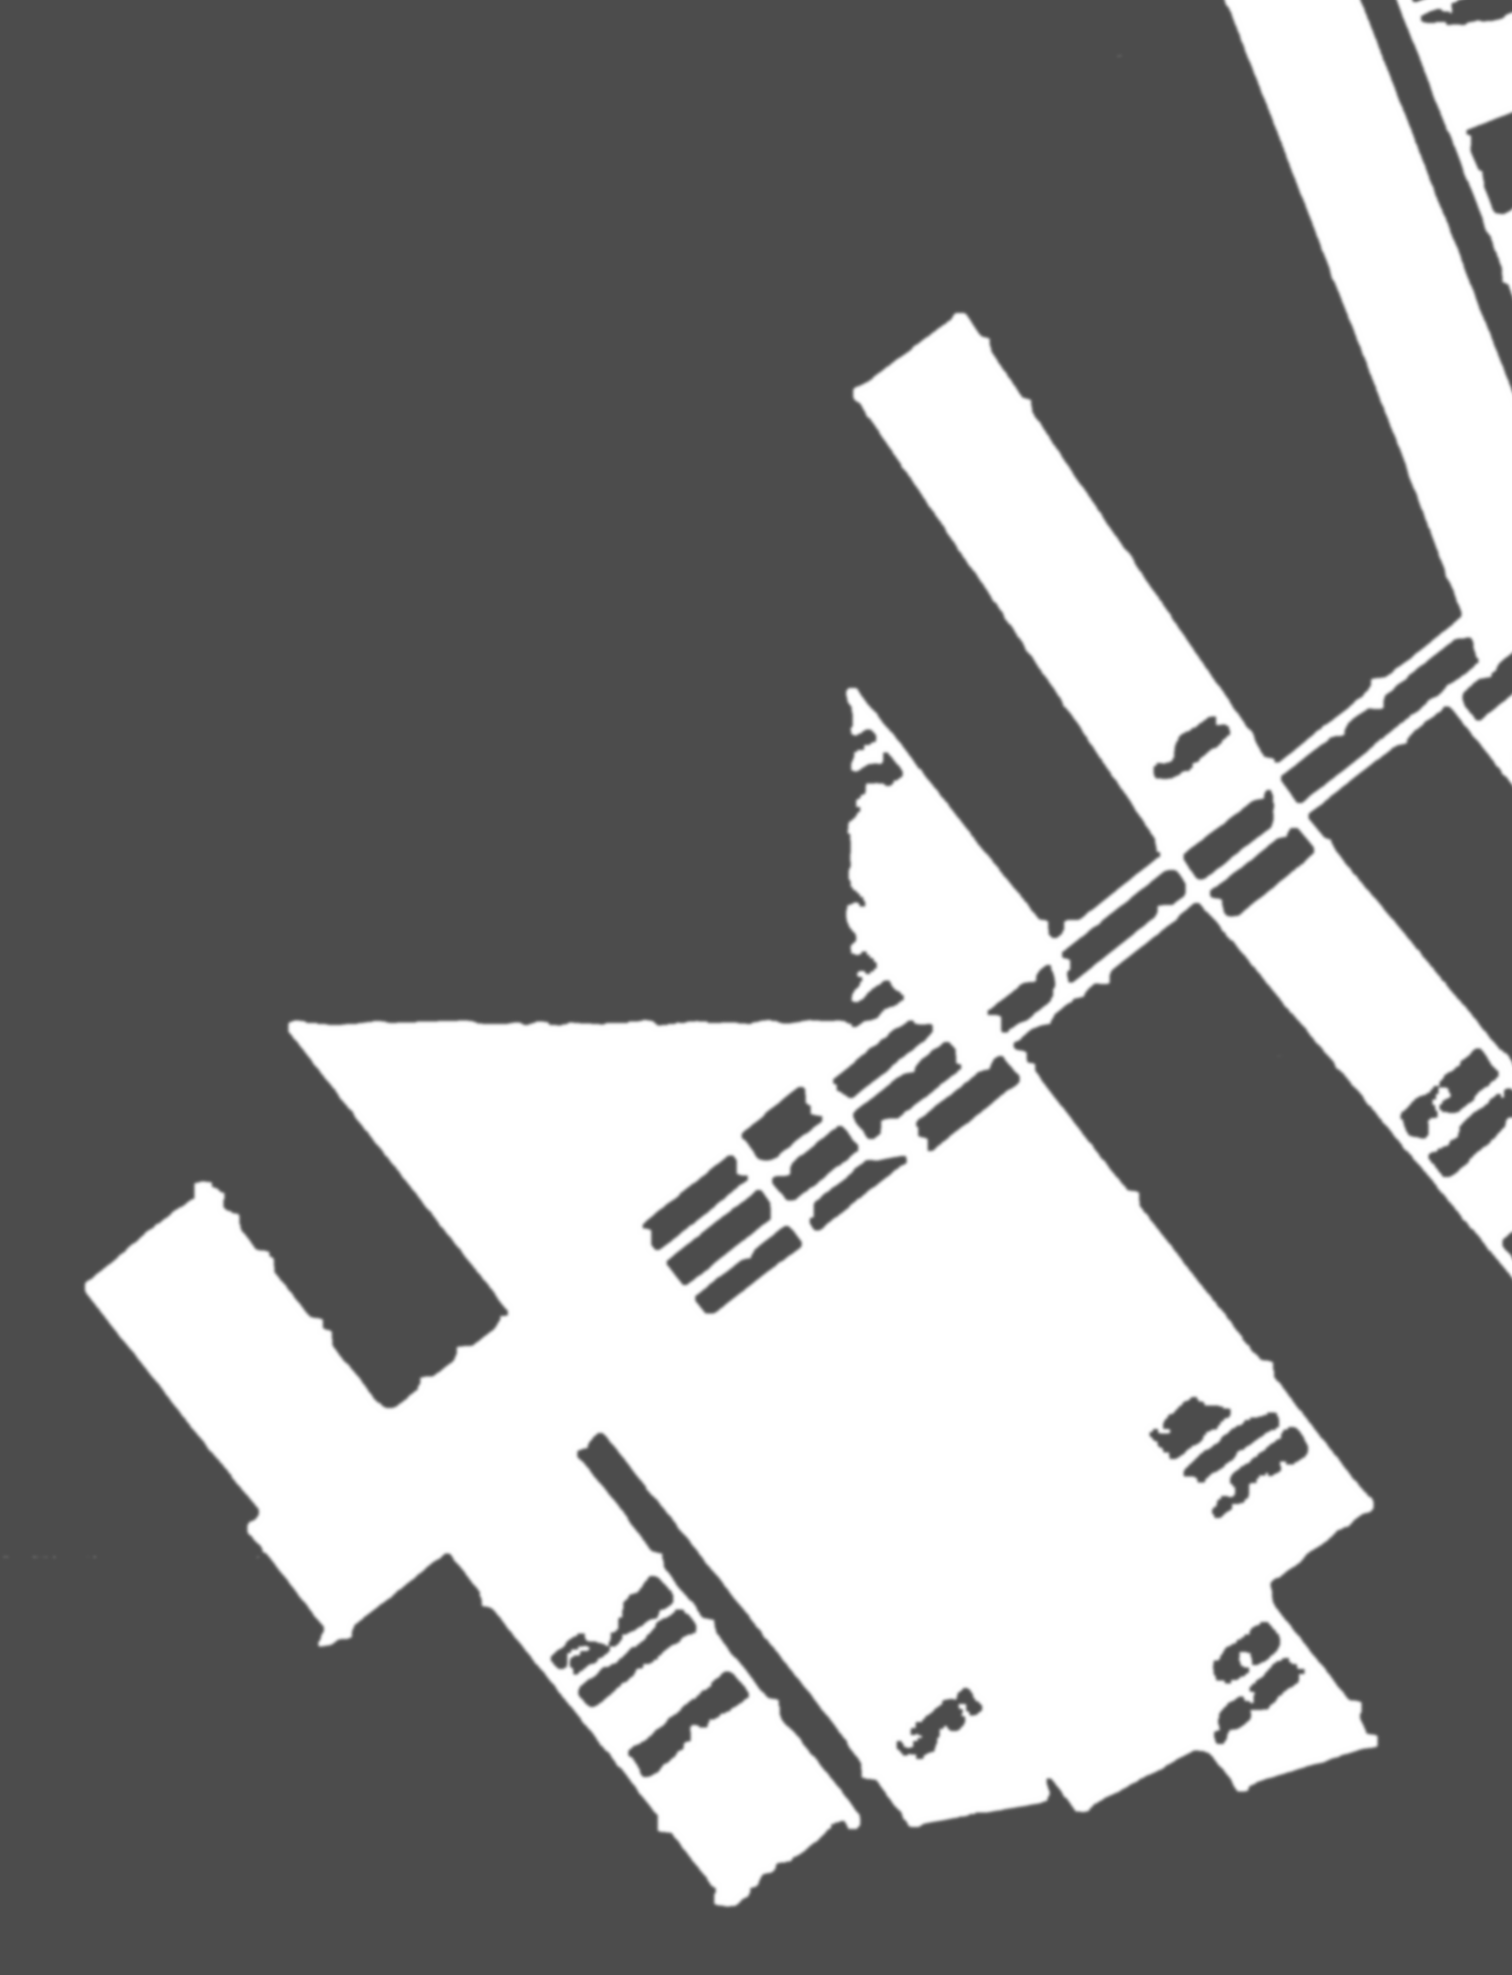
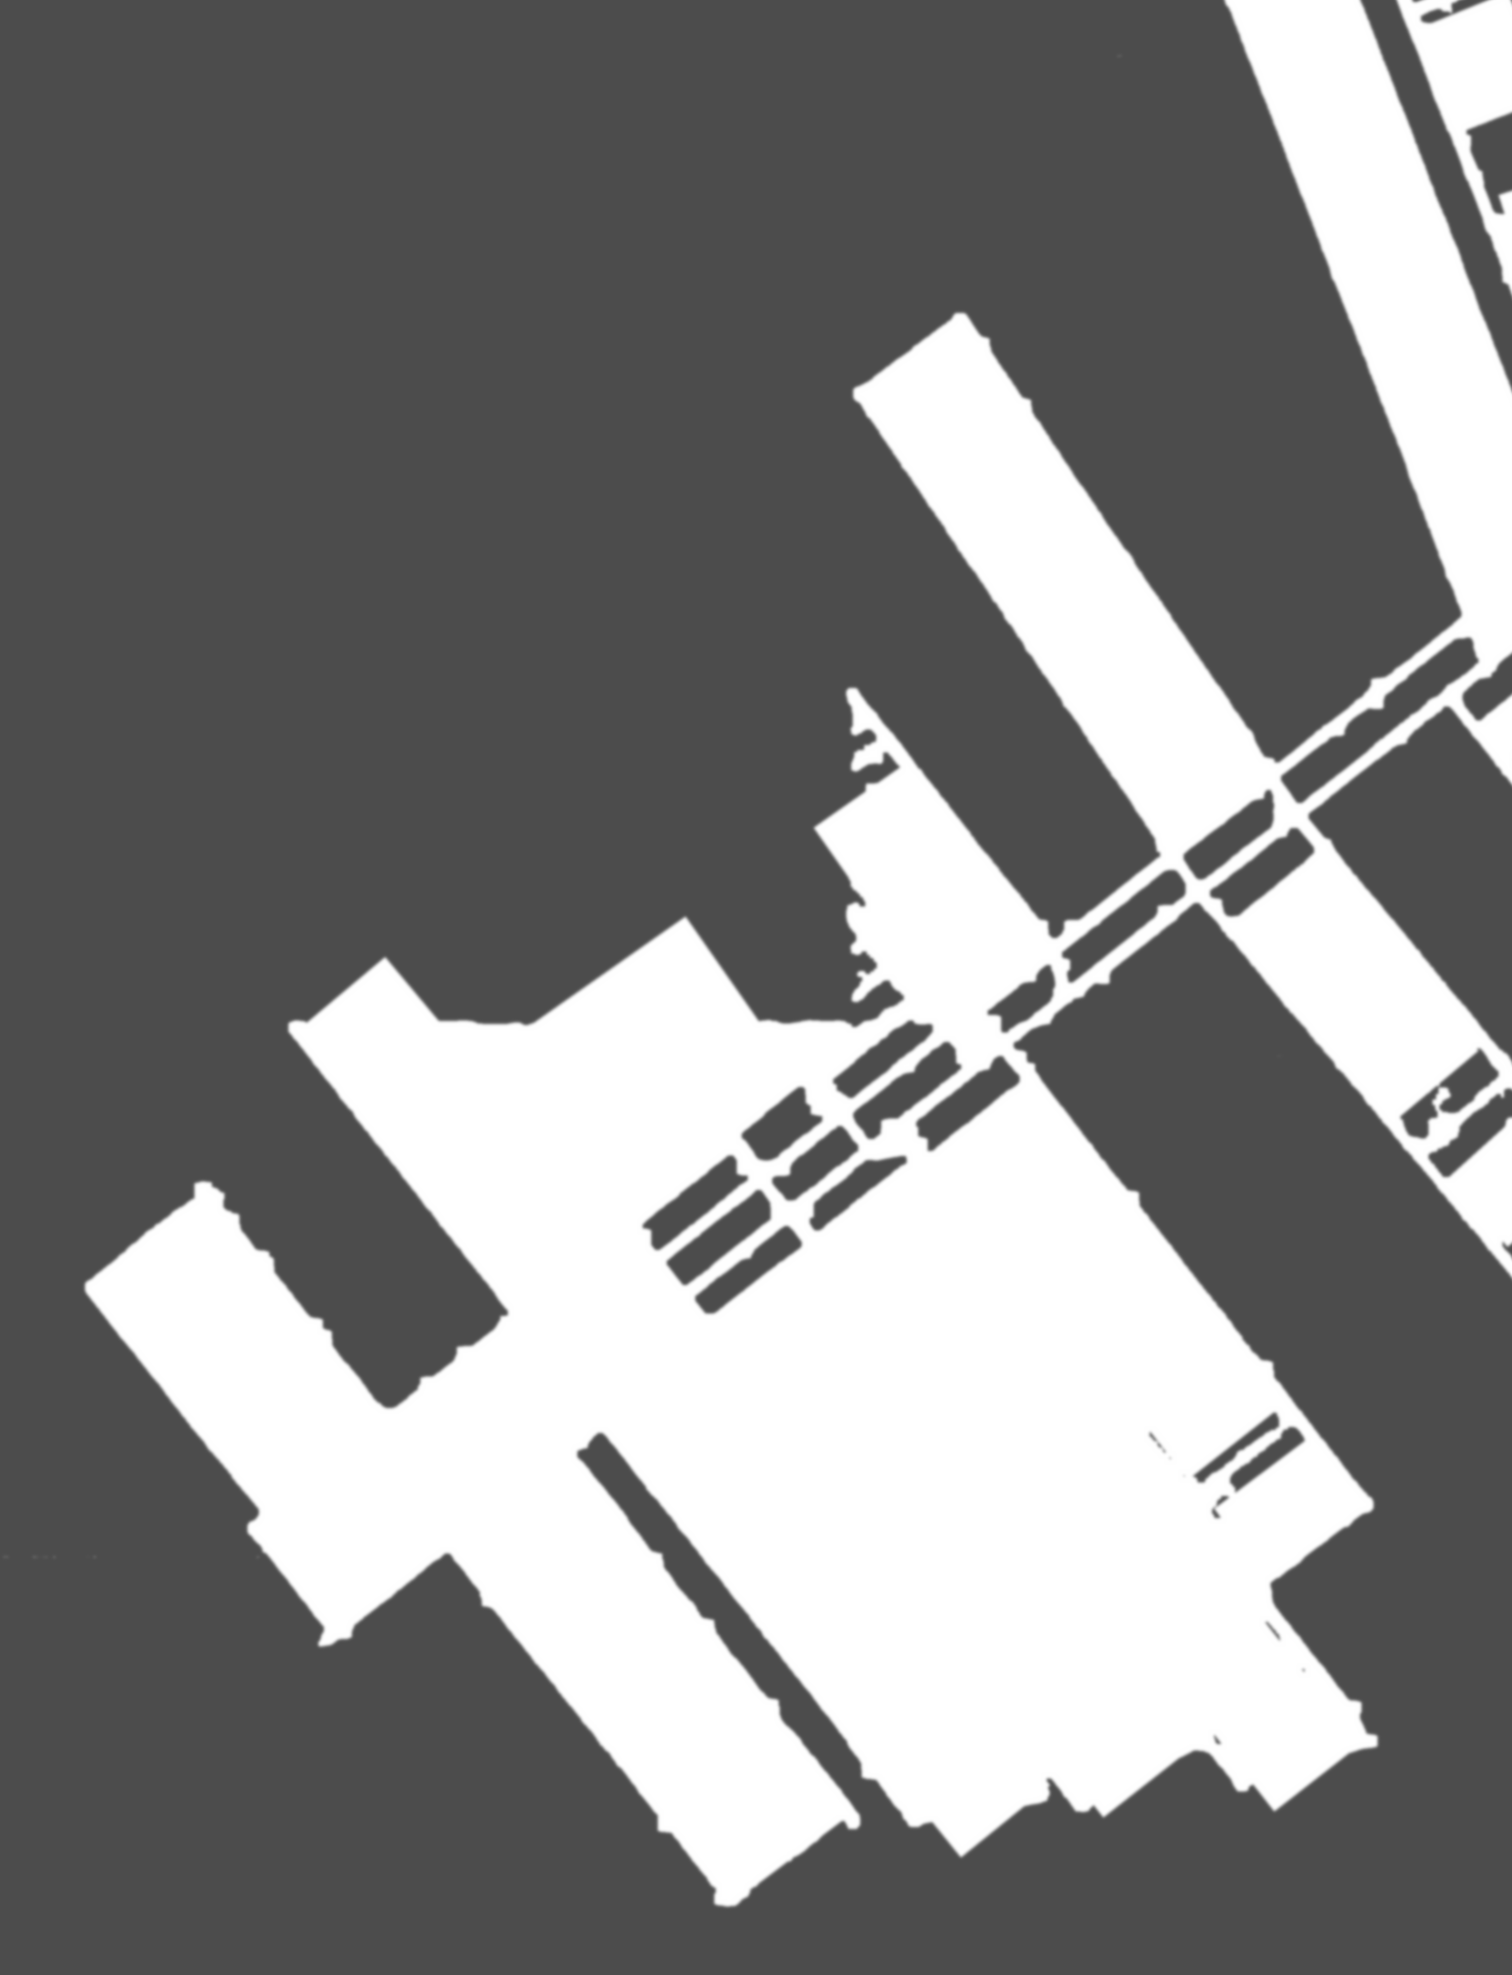
Panels worked solid start to finish; faces 1 m high on 5-leg chocks, no arches
Claude-Session: https://claude.ai/code/session_018UQfztsJCTj6wDcmbs4YbN

diff --git a/index.html b/index.html
@@ -168,7 +168,7 @@ button:focus-visible,input:focus-visible{outline:2px solid var(--accent);outline
       <div class="dist" id="wdist"></div>
     </div>
     <div class="sec note">
-      Roadways are traced from the plan's double lines and drawn as 4.9&nbsp;m × 3.7&nbsp;m steel-arched gates following the Threequarter floor levels. Panel 2's east gate was a face gate until the panel finished, then became the Parkhall main return road (it turns red at that date). Fresh and return air never meet: where the roads cross, the return is carried over the intake on an air crossing, cross-cuts between them are sealed with stoppings, and pit-bottom connections pass through air doors. Loader gates carry the conveyor (right-hand side facing outbye) and have an advanced heading ahead of the face; supply gates carry a rope-hauled rail track and no conveyor; which other roads were intakes or returns is not yet mapped. Rails and arches are illustrative, not surveyed. Worked-out panels (goaf) are not walkable.
+      Roadways are traced from the plan's double lines and drawn as 4.9&nbsp;m × 3.7&nbsp;m steel-arched gates following the Threequarter floor levels. Panel 2's east gate was a face gate until the panel finished, then became the Parkhall main return road (it turns red at that date). Fresh and return air never meet: where the roads cross, the return is carried over the intake on an air crossing, cross-cuts between them are sealed with stoppings, and pit-bottom connections pass through air doors. Loader gates carry the conveyor (right-hand side facing outbye) and have an advanced heading ahead of the face; supply gates carry a rope-hauled rail track and no conveyor; which other roads were intakes or returns is not yet mapped. Faces have no arches: they are 1&nbsp;m high on 5-leg chocks with an armoured face conveyor, and the view drops to a crouch there. Rails and arches are illustrative, not surveyed. Worked-out panels (goaf) are not walkable.
       <button class="btn" id="wModel" style="margin-top:8px">Show this spot in the 3D model</button>
     </div>
   </div>
@@ -197,7 +197,7 @@ button:focus-visible,input:focus-visible{outline:2px solid var(--accent);outline
   <div class="sec">
     <h2>Development over time</h2>
     <div class="row"><label><input type="checkbox" id="tOn">Show workings by date</label></div>
-    <div class="kv"><span id="tLab">Workings to end of 1991</span><b id="tArea">842 ha</b></div>
+    <div class="kv"><span id="tLab">Workings to end of 1991</span><b id="tArea">897 ha</b></div>
     <input type="range" id="tStep" min="0" max="9" step="1" value="9" aria-label="Year" disabled>
     <div class="ticks" aria-hidden="true"><span>1965</span><span>1971</span><span>1977</span><span>1983</span><span>1991</span></div>
     <div class="seg"><button class="btn" id="tPrev" aria-label="Earlier" disabled>◀ 3 yrs</button><button class="btn" id="tPlay" disabled>▶ Play</button><button class="btn" id="tNext" aria-label="Later" disabled>3 yrs ▶</button></div>
@@ -504,8 +504,8 @@ function buildFaces(){
   for(const P of (WALK.panels||[])){const f=faceAt(P,FACE_T); if(!f) continue; const A=acc[f.out?'o':'w'];
     const E0=P.c[0]+P.a[0]*f.t+P.l[0]*P.s[0], N0=P.c[1]+P.a[1]*f.t+P.l[1]*P.s[0], E1=P.c[0]+P.a[0]*f.t+P.l[0]*P.s[1], N1=P.c[1]+P.a[1]*f.t+P.l[1]*P.s[1];
     const L=Math.hypot(E1-E0,N1-N0), n=Math.max(2,Math.ceil(L/10)); let tx=(E1-E0)/L, tz=-(N1-N0)/L; const base=A.p.length/3;
-    for(let k=0;k<=n;k++){const E=E0+(E1-E0)*k/n,N=N0+(N1-N0)*k/n,c=[wx(E),zAt(E,N)*VE+r*0.55,wz(N)];
-      for(let j=0;j<=SEG;j++){const t=j/SEG*Math.PI*2,cs=Math.cos(t)*r,sn=Math.sin(t)*r;A.p.push(c[0]+tz*cs,c[1]+sn,c[2]-tx*cs);A.u.push(j/SEG*2,(L*k/n)/(r*2.2));}}
+    for(let k=0;k<=n;k++){const E=E0+(E1-E0)*k/n,N=N0+(N1-N0)*k/n,c=[wx(E),zAt(E,N)*VE+r*0.2,wz(N)];
+      for(let j=0;j<=SEG;j++){const t=j/SEG*Math.PI*2,cs=Math.cos(t)*r*1.25,sn=Math.max(-0.05,Math.sin(t))*r*0.38;A.p.push(c[0]+tz*cs,c[1]+sn,c[2]-tx*cs);A.u.push(j/SEG*2,(L*k/n)/(r*1.2));}}
     const R1=SEG+1;for(let k=0;k<n;k++)for(let j=0;j<SEG;j++){const a=base+k*R1+j,b=a+1,c=a+R1,d=b+R1;A.i.push(a,c,b,b,c,d);}}
   for(const [key,mat] of [['w',faceMat],['o',faceOutMat]]){if(!acc[key].p.length)continue;const g=new THREE.BufferGeometry();
     g.setAttribute('position',new THREE.Float32BufferAttribute(acc[key].p,3));g.setAttribute('uv',new THREE.Float32BufferAttribute(acc[key].u,2));
@@ -615,13 +615,13 @@ $('L_walls').addEventListener('change',e=>outer.visible=e.target.checked);
 const vis=(id,obj)=>$(id).addEventListener('change',e=>obj.visible=e.target.checked);
 vis('L_cl',hz.cl);vis('L_hh',hz.hh);vis('L_th',hz.th);vis('L_tq',tqMesh);vis('L_grid',gridGroup);vis('L_ground',ground);vis('L_shaft',shaftGroup);
 $('gOp').addEventListener('input',e=>gMat.opacity=+e.target.value);
-const TSTEPS=[1965,1968,1971,1974,1977,1980,1983,1986,1989,1991], TAREA=[4,49,126,241,343,440,547,688,794,842];
+const TSTEPS=[1965,1968,1971,1974,1977,1980,1983,1986,1989,1991], TAREA=[4,49,131,253,365,470,583,728,847,897];
 let tPlay=null;
 function setTime(){const on=$('tOn').checked, i=+$('tStep').value, y=TSTEPS[i];
   for(const id of ['tStep','tPrev','tPlay','tNext']) $(id).disabled=!on;
   FACE_T=on?(y>=1991?1991.72:y+1.0):1991.72; U_YEAR.value=on?FACE_T:3000; buildFaces();
   $('tLab').textContent=on?`Workings to end of ${y}`+(i?` (${TSTEPS[i-1]+1}–${y} highlighted)`:''):'Workings to end of 1991';
-  $('tArea').textContent=(on?TAREA[i]:842)+' ha';
+  $('tArea').textContent=(on?TAREA[i]:897)+' ha';
   if(!on&&tPlay){clearInterval(tPlay);tPlay=null;$('tPlay').textContent='▶ Play';}}
 $('tOn').addEventListener('change',()=>{if($('tOn').checked&&+$('tStep').value===9)$('tStep').value=0;setTime();});
 $('tStep').addEventListener('input',setTime);
@@ -742,7 +742,7 @@ const wscene=new THREE.Scene(); wscene.background=new THREE.Color(0x060606); wsc
 const wcam=new THREE.PerspectiveCamera(W.fov,1,0.1,500); wcam.rotation.order='YXZ';
 wscene.add(new THREE.AmbientLight(0xffffff,0.7));
 const lamp=new THREE.PointLight(0xfff0d0,4.2,0,0); wcam.add(lamp); wscene.add(wcam);
-const EYE=1.7;
+const EYE=1.7; const eyeAt=k=>(W.faceStops&&W.faceStops[k])?0.72:EYE;
 function canvasTex(w,h,draw){const c=document.createElement('canvas');c.width=w;c.height=h;const g=c.getContext('2d');draw(g,w,h);
   const t=new THREE.CanvasTexture(c);t.wrapS=t.wrapT=THREE.RepeatWrapping;t.colorSpace=THREE.SRGBColorSpace;t.anisotropy=Math.min(8,maxAn);return t;}
 function grain(g,w,h,base,n){g.fillStyle=base;g.fillRect(0,0,w,h);
@@ -782,6 +782,7 @@ PROF.push([HW,1.6],[HW,0]);
 const PU=[0];for(let i=1;i<PROF.length;i++)PU.push(PU[i-1]+Math.hypot(PROF[i][0]-PROF[i-1][0],PROF[i][1]-PROF[i-1][1]));
 
 function buildTunnels(){
+  const FR={p:[],u:[],i:[]}, FACES=[];
   const D=W.data, A0={p:[],u:[],i:[]}, AR={p:[],u:[],i:[]}, AL={p:[],u:[],i:[]}, F={p:[],u:[],i:[]}, FL={p:[],u:[],i:[]}, FS={p:[],u:[],i:[]}, B={p:[],u:[],i:[]}, C={p:[],i:[]};
   function ribbon(T,rings,prof,uOf,vScale){ // rings: [{c:[x,y,z],s:[sx,sz],d}]
     const base=T.p.length/3, np=prof.length;
@@ -800,6 +801,11 @@ function buildTunnels(){
     const mk=(P)=>{let d=0;return P.map((c,k)=>{if(k)d+=Math.hypot(c[0]-P[k-1][0],c[1]-P[k-1][1],c[2]-P[k-1][2]);
       const a=P[Math.max(0,k-1)],b=P[Math.min(P.length-1,k+1)];let tx=b[0]-a[0],tz=b[2]-a[2];const l=Math.hypot(tx,tz)||1;tx/=l;tz/=l;
       return {c,s:[tz,-tx],d};});};
+    if(D.kinds[ti]==='f'){ if(full.length>1){const R=mk(full); FACES.push(R);
+        ribbon(FR,R,[[-2.3,0],[-2.3,1.0],[2.3,1.0],[2.3,0]],k=>k/3,1.5);          // coal side, roof, goaf side: 1 m seam
+        ribbon(B,R,[[-2.2,0.35],[-1.5,0.35],[-1.5,0.0]],k=>k/2,2);             // armoured face conveyor along the coal side
+        ribbon(F,R,[[-2.3,0.02],[2.3,0.02]],k=>k,2);}
+      return; }
     if(arch.length>1){const R=mk(arch); const A='as'.includes(D.kinds[ti])?AR:'li'.includes(D.kinds[ti])?AL:A0;
       ribbon(A,R,PROF,k=>PU[k]/2.5,1);
       if(!'as'.includes(D.kinds[ti])) ribbon(B,R,[[2.15,0.95],[1.05,0.95],[1.05,0.0]],k=>k/2,2); // belt conveyor: fresh-air roads only, right-hand side facing outbye (tunnels run outbye→inbye)
@@ -817,6 +823,22 @@ function buildTunnels(){
     for(let k=1;k<=16;k++)C.i.push(b2,b2+k,b2+k+1);}
   const geo=(T,uv)=>{const g=new THREE.BufferGeometry();g.setAttribute('position',new THREE.Float32BufferAttribute(T.p,3));
     if(uv)g.setAttribute('uv',new THREE.Float32BufferAttribute(T.u,2));g.setIndex(T.i);g.computeVertexNormals();return g;};
+  const faceRoofM=new THREE.MeshLambertMaterial({map:canvasTex(128,128,(g,w,h)=>{grain(g,w,h,'#1c1d1f',4000);g.fillStyle='rgba(255,255,255,.05)';for(let y=0;y<h;y+=9)g.fillRect(0,y,w,2);}),side:THREE.DoubleSide});
+  wscene.add(new THREE.Mesh(geo(FR,true),faceRoofM));
+  // 5-leg chocks every 1.5 m along each face: canopy, base, two front legs and three rear legs
+  const chockPos=[]; for(const R of FACES){const tot=R[R.length-1].d; for(let dd=0.75;dd<tot;dd+=1.5){let k=0;while(k<R.length-2&&R[k+1].d<dd)k++;
+      const a=R[k],b=R[k+1],f=(dd-a.d)/Math.max(0.01,b.d-a.d); chockPos.push([a.c[0]+(b.c[0]-a.c[0])*f,a.c[1]+(b.c[1]-a.c[1])*f,a.c[2]+(b.c[2]-a.c[2])*f,Math.atan2(-a.s[1],a.s[0])]);}}   // chock canopy lies across the face (along the side vector)
+  const nC=chockPos.length, m4=new THREE.Matrix4(), q=new THREE.Quaternion(), up=new THREE.Vector3(0,1,0), one=new THREE.Vector3(1,1,1);
+  const canopy=new THREE.InstancedMesh(new THREE.BoxGeometry(3.0,0.1,1.2),new THREE.MeshLambertMaterial({color:0xc8a23a}),nC);
+  const base=new THREE.InstancedMesh(new THREE.BoxGeometry(2.4,0.12,1.1),new THREE.MeshLambertMaterial({color:0x8f7a3a}),nC);
+  const legs=new THREE.InstancedMesh(new THREE.CylinderGeometry(0.08,0.08,0.76,8),new THREE.MeshLambertMaterial({color:0xd8d8d0}),nC*5);
+  const LEG=[[-0.9,-0.3],[-0.9,0.3],[0.55,-0.4],[0.55,0],[0.55,0.4]];
+  chockPos.forEach(([x,y,z,ang],k)=>{q.setFromAxisAngle(up,ang);
+    const at=(dx,dy,dz)=>new THREE.Vector3(dx,dy,dz).applyQuaternion(q).add(new THREE.Vector3(x,y,z));
+    m4.compose(at(0,0.93,0),q,one); canopy.setMatrixAt(k,m4); m4.compose(at(0.2,0.06,0),q,one); base.setMatrixAt(k,m4);
+    LEG.forEach(([lx,lz],j)=>{m4.compose(at(lx,0.5,lz),q,one); legs.setMatrixAt(k*5+j,m4);});});
+  wscene.add(canopy,base,legs);
+  W.faceStops=D.stops.map(([E,N,z])=>FACES.some(R=>R.some(p=>Math.abs(p.c[0]-wx(E))<4&&Math.abs(p.c[2]-wz(N))<4)));
   wscene.add(new THREE.Mesh(geo(A0,true),archMat),new THREE.Mesh(geo(AR,true),archRetMat),new THREE.Mesh(geo(AL,true),archLoadMat),new THREE.Mesh(geo(F,true),floorMat),new THREE.Mesh(geo(FL,true),floorPlainMat),new THREE.Mesh(geo(FS,true),floorRopeMat),new THREE.Mesh(geo(B,true),beltMat),new THREE.Mesh(geo(C,false),capMat));
   // No. 2 shaft: lined barrel from surface to just above the Threequarter inset, pit-bottom chamber below
   const s=SHAFTS[0], top=s.top, bot=-578, h=top-bot;
@@ -876,7 +898,7 @@ function placeArrows(){
 // ---------- movement ----------
 function look(){wcam.rotation.set(W.pitch,-W.yaw,0);}
 function goTo(k,opts={}){
-  const from=wcam.position.clone(), to=SP(k).add(new THREE.Vector3(0,EYE,0));
+  const from=wcam.position.clone(), to=SP(k).add(new THREE.Vector3(0,eyeAt(k),0));
   const dist=from.distanceTo(to);
   const y0=W.yaw; let y1=opts.face??W.yaw; let dy=((y1-y0+Math.PI*3)%(Math.PI*2))-Math.PI;
   W.anim={t:0,dur:opts.dur??Math.min(900,180+dist*22),from,to,y0,dy,k};
@@ -913,7 +935,7 @@ function updWalkInfo(){
   let near='',nd=1e9; for(const [t,e,n] of DIST){const d=Math.hypot(e-E,n-N);if(d<nd){nd=d;near=t;}}
   const deg=W.data.nb[W.cur].length;
   $('wRef').textContent=sk(E,N); $('wLv').textContent=`${z.toFixed(1)} m OD`; $('wDep').textContent=`~${(GROUND-z).toFixed(0)} m`;
-  $('wGr').textContent=grad; const KN={i:'Intake (fresh air) main road',l:'Loader gate · fresh air, conveyor',s:'Supply gate · dirty side, rope haulage',a:'Return airway (No. 2 Shaft)',d:'Drift between seams',h:'High Hazel seam roadway',t:'Top Hard level roadway',f:'Face line (panel end)'};
+  $('wGr').textContent=grad; const KN={f:'Face · 1 m seam on 5-leg chocks',i:'Intake (fresh air) main road',l:'Loader gate · fresh air, conveyor',s:'Supply gate · dirty side, rope haulage',a:'Return airway (No. 2 Shaft)',d:'Drift between seams',h:'High Hazel seam roadway',t:'Top Hard level roadway',f:'Face line (panel end)'};
   $('wKind').textContent=W.kind&&KN[W.kind[W.cur]]?KN[W.kind[W.cur]]+(deg>=3?' · junction':''):deg>=3?`Junction (${deg} ways)`:deg===1?'End of roadway':(wk?'Gate road, edge of worked panel':'Roadway');
   $('wNear').textContent=near.replace(/ ·.*/,'');
   if(W.doorStops&&W.doorStops[W.cur]) $('wKind').textContent='Air doors: fresh air side / No. 2 Shaft return';
@@ -950,7 +972,7 @@ mini.addEventListener('click',e=>{ if(!W.miniView||W.anim||W.shaft) return; cons
   teleport(best); });
 $('miniZoom').onclick=()=>{W.mini=W.mini==='near'?'all':'near';$('miniZoom').textContent=W.mini==='near'?'Whole mine':'Close up';};
 function teleport(k,yaw){W.queue=[];W.anim=null;W.cur=k;if(yaw!==undefined)W.yaw=yaw;else{const n=W.data.nb[k][0];if(n!==undefined)W.yaw=headingTo(k,n);}
-  wcam.position.copy(SP(k)).add(new THREE.Vector3(0,EYE,0)); look(); placeArrows(); updWalkInfo();}
+  wcam.position.copy(SP(k)).add(new THREE.Vector3(0,eyeAt(k),0)); look(); placeArrows(); updWalkInfo();}
 
 // ---------- cage ride ----------
 function rideCage(){
